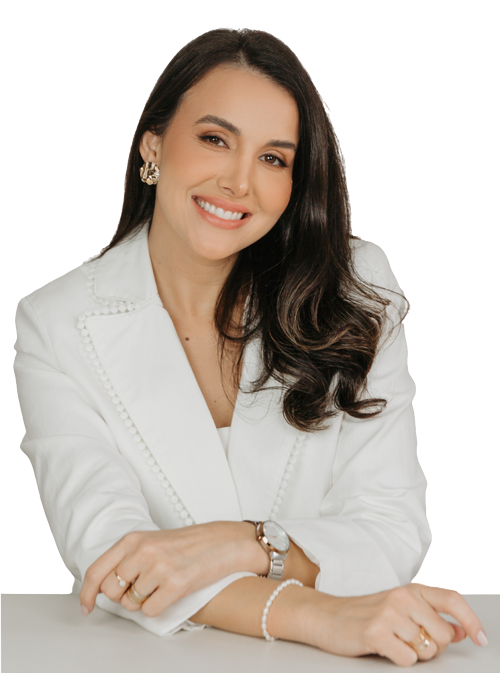
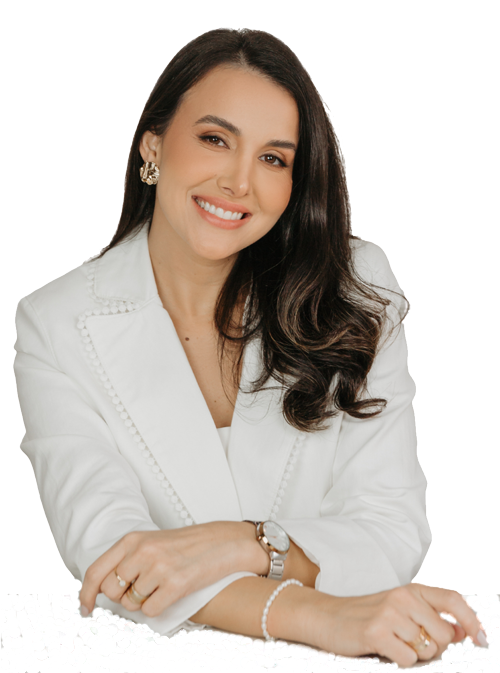
adasdsad

Changed region(s): [[0.0, 0.8425, 1.0, 1.0]]

diff --git a/src/assets/css/styles.css b/src/assets/css/styles.css
@@ -15,7 +15,7 @@ body {
      --base-font: 'Inter', sans-serif;
     --heading-font: 'Work Sans', sans-serif;
     --primary-color: #ba713e;
-    --secondary-color: #cf9b76;
+    --secondary-color: #7a3b12;
     --heading-color: #bc7240;
     --base-color: #696969;
     --lighter-color: #F1F5FF;
@@ -41,9 +41,9 @@ body {
     height: 100%;
     background-image: url('../images/logo-repeat.png');/* Substitua pelo caminho real da sua imagem */
     background-repeat: repeat;
-    background-size: 50px 50px; /* Defina o tamanho da imagem de fundo */
+    background-size: 30px 30px; /* Defina o tamanho da imagem de fundo */
     background-color: rgba(255, 255, 255, 0.863); /* Adiciona uma camada semi-transparente */
-    opacity: 0.3;
+    opacity: 0.2;
     z-index: 1;
 }
 
@@ -136,17 +136,13 @@ h1, .h1 {
     margin-bottom: 0;
 }
 
-
 .lp-form p {
     margin-bottom: 26px;
 }
 
 .lp-form {
     padding: 20px;
-    background: white;
     border-radius: 20px;
-    -webkit-box-shadow: 0px 10px 60px 0px rgba(155, 155, 155, 0.2);
-    box-shadow: 0px 10px 60px 0px rgba(155, 155, 155, 0.2);
 }
 
 .section-title h2 {
@@ -196,6 +192,8 @@ input, select, textarea, .nice-select, .form-control {
     text-transform: capitalize;
     background-position: 100% 100%;
     background-color: var(--heading-color);
+    border: none; /* Remove a borda do botão */
+    outline: none; /* Remove o contorno do botão quando focado */
 }
 
 
@@ -207,7 +205,6 @@ input, select, textarea, .nice-select, .form-control {
     border-radius: 15px;
     font-family: var(--heading-font);
     background: var(--lighter-color);
-    border: 1px solid var(--lighter-color);
 }
 
 @media (max-width: 768px) {
@@ -226,6 +223,9 @@ input, select, textarea, .nice-select, .form-control {
     }
 
     .right img {
-        max-width: 80%; /* Ajuste conforme necessário */
+        position: static; /* Volta a posição estática para ocupar espaço no fluxo */
+        max-width: 100%; /* Garante que a imagem ocupe a largura disponível */
+        height: auto; /* Altura automática para manter a proporção */
+        margin-top: 20px; /* Adiciona um espaço acima da imagem */
     }
 }
